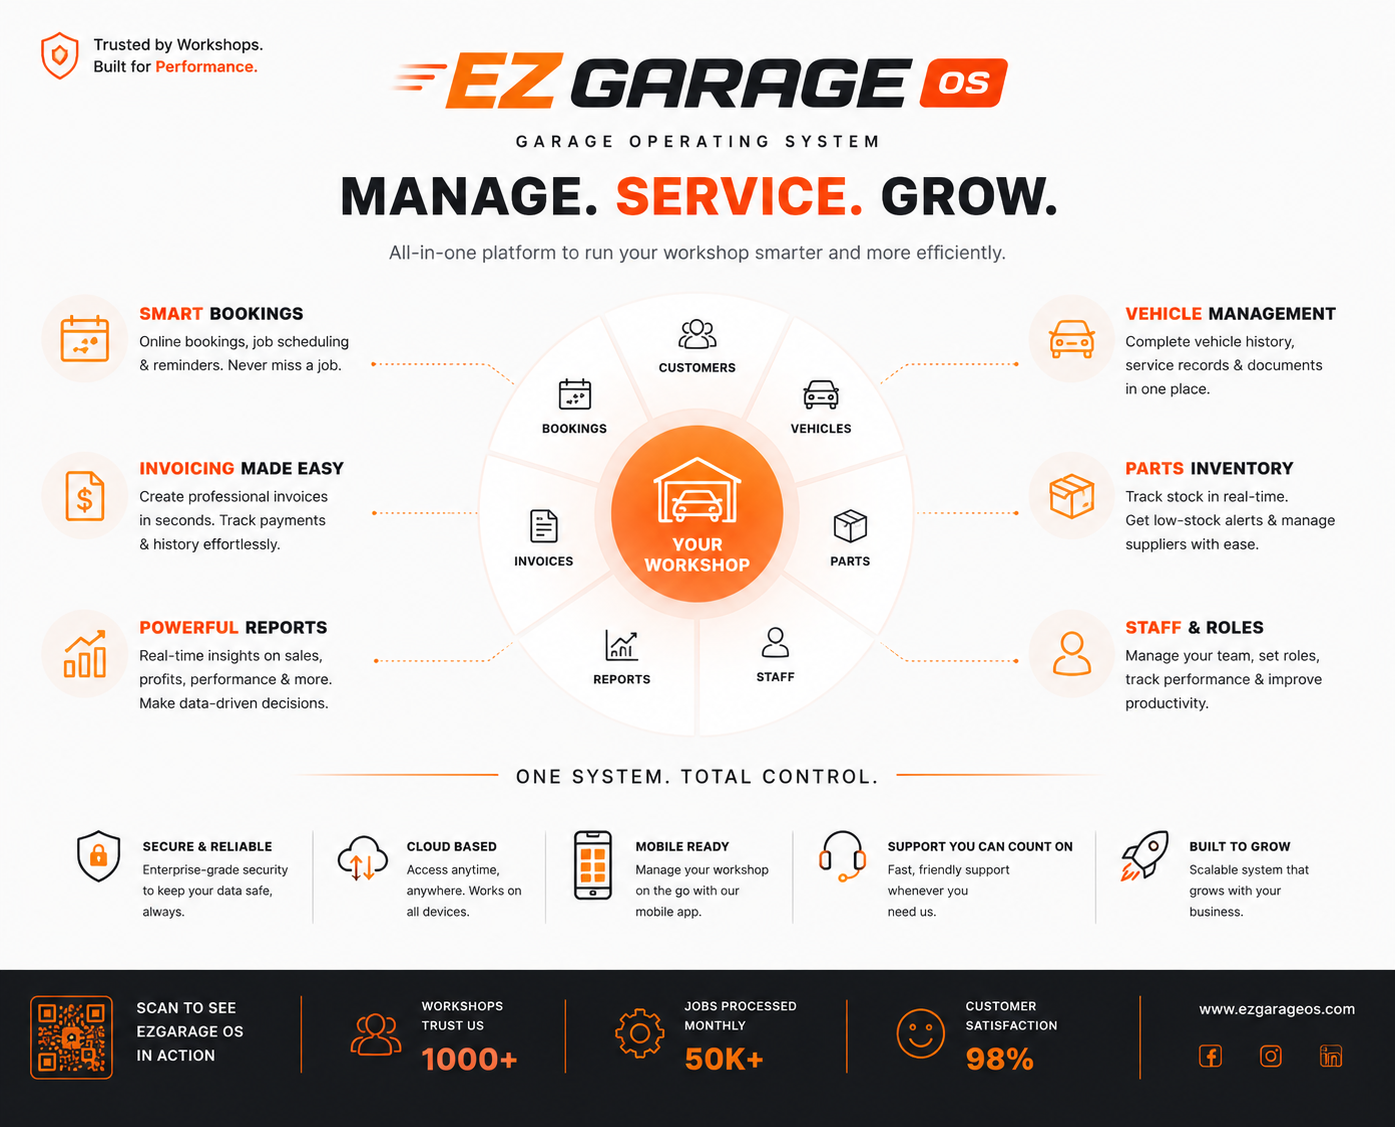
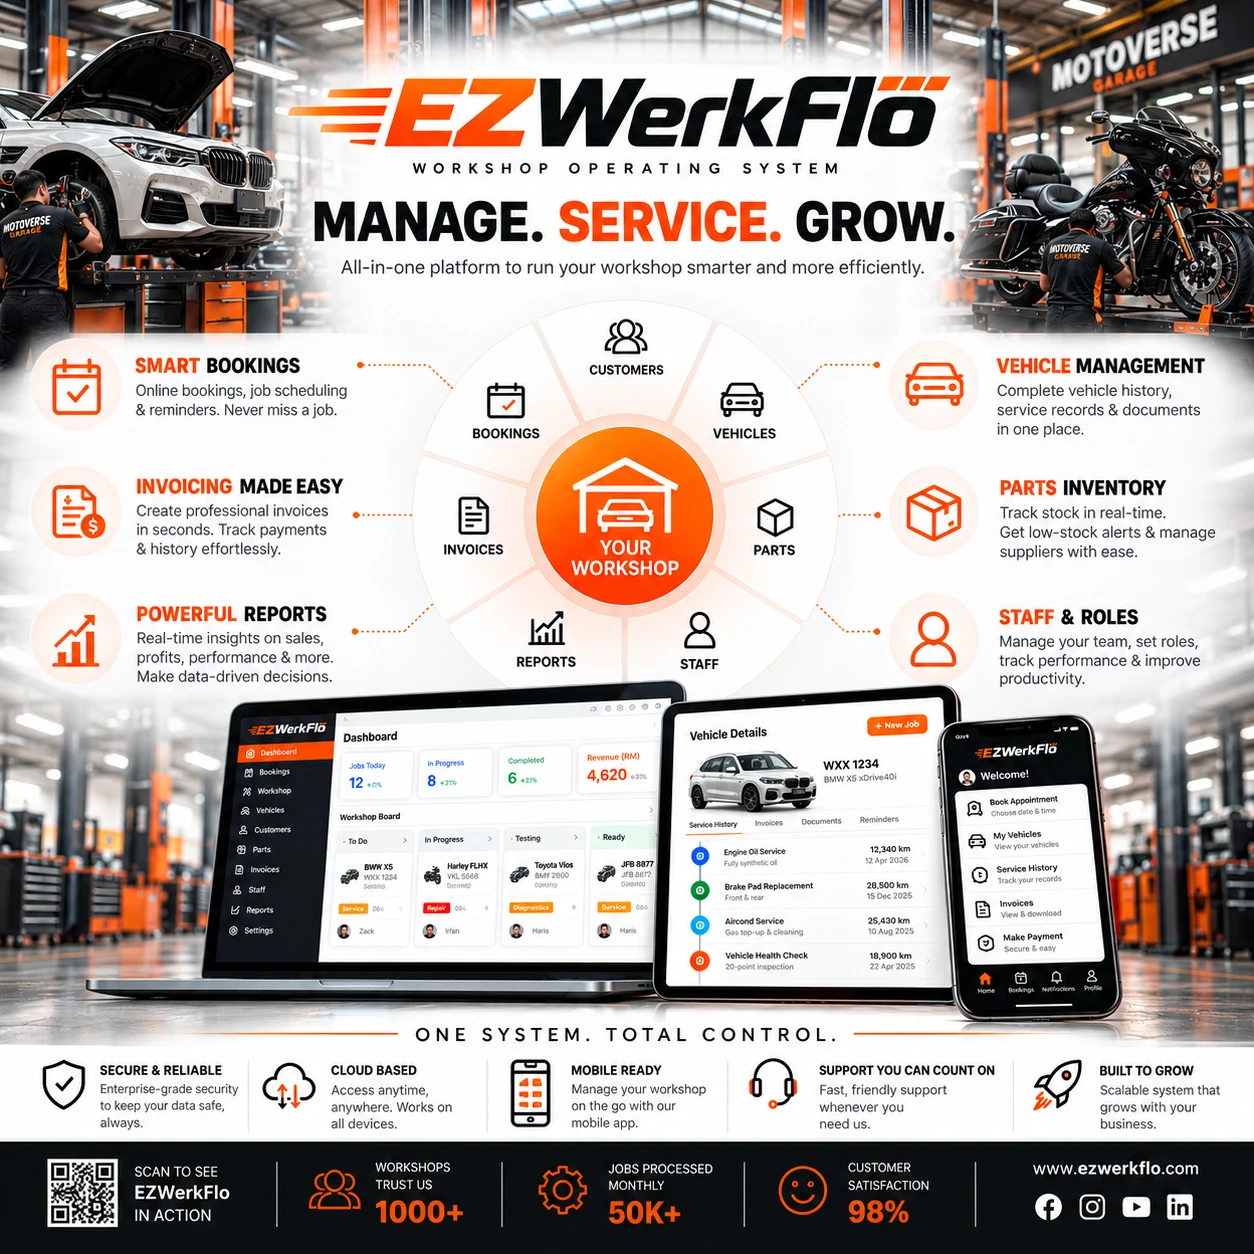
Rebrand UI from EZGarage to EZWerkFlo
UI-only rebrand: login/signup copy, header/sidebar branding, printed
invoice/receipt footers, page title, and RaudhahPay email/PDF text now
say EZWerkFlo. Swaps in new logo.png (alpha-extracted, recolored for
the dark sidebar) and login-banner.png artwork. No database, Vercel
project, or other infrastructure names changed.

diff --git a/apps/web/src/pages/SignUpPage.tsx b/apps/web/src/pages/SignUpPage.tsx
@@ -163,17 +163,17 @@ export function SignUpPage() {
         {/* Logo + centered brand block */}
         <div style={{ position: 'relative', zIndex: 10, display: 'flex', flexDirection: 'column', alignItems: 'center', textAlign: 'center', gap: '28px', width: '100%', maxWidth: '420px' }}>
 
-          {/* EZGarage OS logo mark */}
+          {/* EZWerkFlo logo mark */}
           <div style={{ display: 'flex', alignItems: 'center', gap: '14px' }}>
             <div style={{ width: 56, height: 56, background: '#F15A22', borderRadius: 14, display: 'flex', alignItems: 'center', justifyContent: 'center', flexShrink: 0, boxShadow: '0 0 24px rgba(241,90,34,0.4)' }}>
               <span style={{ color: '#fff', fontWeight: 900, fontSize: 24, fontFamily: 'system-ui', letterSpacing: -1 }}>EZ</span>
             </div>
             <div style={{ textAlign: 'left' }}>
               <div style={{ color: '#F0F0F0', fontWeight: 900, fontSize: 22, fontFamily: 'system-ui', letterSpacing: 1 }}>
-                EZGarage <span style={{ color: '#F15A22' }}>OS</span>
+                EZWerkFlo
               </div>
               <div style={{ color: '#6B7280', fontSize: 10, letterSpacing: 3, textTransform: 'uppercase', marginTop: 2 }}>
-                Garage Operating System
+                Workshop Operating System
               </div>
             </div>
           </div>
@@ -188,10 +188,10 @@ export function SignUpPage() {
           {/* Tagline */}
           <div>
             <h2 style={{ fontSize: '28px', fontWeight: 700, color: '#F0F0F0', marginBottom: '8px', lineHeight: 1.3 }}>
-              Power your garage<br />with EZGarage OS
+              Power your workshop<br />with EZWerkFlo
             </h2>
             <p style={{ fontSize: '14px', color: '#A0A0A0' }}>
-              The all-in-one garage operating system for modern workshops
+              The all-in-one operating system for modern workshops
             </p>
           </div>
 
@@ -208,7 +208,7 @@ export function SignUpPage() {
         {/* Footer */}
         <div style={{ position: 'absolute', bottom: 24, zIndex: 10 }}>
           <p style={{ fontSize: '12px', color: '#4B5563' }}>
-            EZGarage OS &copy; 2025. All rights reserved.
+            EZWerkFlo &copy; 2025. All rights reserved.
           </p>
         </div>
       </div>
@@ -231,8 +231,8 @@ export function SignUpPage() {
             <span style={{ color: '#fff', fontWeight: 900, fontSize: 17, fontFamily: 'system-ui', letterSpacing: -1 }}>EZ</span>
           </div>
           <div>
-            <div style={{ color: '#F0F0F0', fontWeight: 800, fontSize: 16, fontFamily: 'system-ui' }}>EZGarage <span style={{ color: '#F15A22' }}>OS</span></div>
-            <div style={{ color: '#6B7280', fontSize: 10, letterSpacing: 2, textTransform: 'uppercase' }}>Garage Operating System</div>
+            <div style={{ color: '#F0F0F0', fontWeight: 800, fontSize: 16, fontFamily: 'system-ui' }}>EZWerkFlo</div>
+            <div style={{ color: '#6B7280', fontSize: 10, letterSpacing: 2, textTransform: 'uppercase' }}>Workshop Operating System</div>
           </div>
         </div>
 
@@ -438,7 +438,7 @@ export function SignUpPage() {
           </p>
 
           <p style={{ textAlign: 'center', fontSize: '12px', color: '#4B5563', marginTop: '24px' }}>
-            EZGarage OS &copy; 2025
+            EZWerkFlo &copy; 2025
           </p>
         </div>
       </div>

diff --git a/apps/web/src/pages/LoginPage.tsx b/apps/web/src/pages/LoginPage.tsx
@@ -76,7 +76,7 @@ export function LoginPage() {
       >
         <img
           src="/login-banner.png"
-          alt="EZGarage OS"
+          alt="EZWerkFlo — Workshop Operating System"
           style={{ width: '100%', height: '100%', objectFit: 'cover', objectPosition: 'center top', display: 'block' }}
         />
       </div>
@@ -95,8 +95,8 @@ export function LoginPage() {
             <span style={{ color: '#fff', fontWeight: 900, fontSize: 16 }}>EZ</span>
           </div>
           <div>
-            <div style={{ color: '#F0F0F0', fontWeight: 800, fontSize: 16 }}>EZGarage <span style={{ color: '#F15A22' }}>OS</span></div>
-            <div style={{ color: '#6B7280', fontSize: 10, letterSpacing: 1.5, textTransform: 'uppercase', marginTop: 2 } as React.CSSProperties}>Garage Operating System</div>
+            <div style={{ color: '#F0F0F0', fontWeight: 800, fontSize: 16 }}>EZWerkFlo</div>
+            <div style={{ color: '#6B7280', fontSize: 10, letterSpacing: 1.5, textTransform: 'uppercase', marginTop: 2 } as React.CSSProperties}>Workshop Operating System</div>
           </div>
         </div>
 
@@ -115,7 +115,7 @@ export function LoginPage() {
               Welcome <span style={{ color: '#F15A22' }}>Back!</span>
             </h2>
             <p style={{ color: '#6B7280', fontSize: 14, margin: 0 }}>
-              Sign in to your EZGarage workspace
+              Sign in to your EZWerkFlo workspace
             </p>
           </div>
 
@@ -229,7 +229,7 @@ export function LoginPage() {
           </form>
 
           <p style={{ textAlign: 'center', fontSize: 13, color: '#6B7280', marginTop: 24, marginBottom: 0 }}>
-            New to EZGarage OS?{' '}
+            New to EZWerkFlo?{' '}
             <a href="/signup" style={{ color: '#F15A22', textDecoration: 'none', fontWeight: 600 }}>
               Sign up free →
             </a>
@@ -237,7 +237,7 @@ export function LoginPage() {
         </div>
 
         <p style={{ textAlign: 'center', fontSize: 11, color: '#2A2A2A', marginTop: 20 }}>
-          EZGarage OS © 2025. All rights reserved.
+          EZWerkFlo © 2025. All rights reserved.
         </p>
       </div>
     </div>

diff --git a/apps/web/src/pages/InvoicesPage.tsx b/apps/web/src/pages/InvoicesPage.tsx
@@ -280,7 +280,7 @@ function buildInvoiceHtml(inv: Invoice, branch: BranchPrintInfo | null): string 
   </div>
   <div style="text-align:center;font-size:12px;color:#aaa;border-top:1px solid #eee;padding-top:8px;margin-bottom:12px">Thank you for your business! · This is a computer-generated invoice.</div>
   <div style="display:flex;align-items:center;justify-content:center;gap:6px;padding-top:8px;border-top:1px solid #f0f0f0">
-    <span style="font-size:12px;color:#bbb">Powered by:</span><span style="font-size:12px;color:#aaa;font-weight:600">EZ Garage</span><span style="font-size:12px;color:#ccc">·</span><span style="font-size:12px;color:#aaa">http://ezgarage.app</span>
+    <span style="font-size:12px;color:#bbb">Powered by:</span><span style="font-size:12px;color:#aaa;font-weight:600">EZWerkFlo</span><span style="font-size:12px;color:#ccc">·</span><span style="font-size:12px;color:#aaa">http://ezwerkflo.com</span>
   </div>
 </div></body></html>`
 }
@@ -335,7 +335,7 @@ function buildReceiptHtml(inv: Invoice, branch: BranchPrintInfo | null): string 
   </div>
   <div style="text-align:center;font-size:12px;color:#aaa;border-top:1px solid #eee;padding-top:8px;margin-bottom:6px">Thank you for your payment! Please keep this receipt for your records.</div>
   <div style="display:flex;align-items:center;justify-content:center;gap:6px">
-    <span style="font-size:11px;color:#ccc">Powered by:</span><span style="font-size:11px;color:#bbb;font-weight:600">EZ Garage</span><span style="font-size:11px;color:#ccc">·</span><span style="font-size:11px;color:#bbb">http://ezgarage.app</span>
+    <span style="font-size:11px;color:#ccc">Powered by:</span><span style="font-size:11px;color:#bbb;font-weight:600">EZWerkFlo</span><span style="font-size:11px;color:#ccc">·</span><span style="font-size:11px;color:#bbb">http://ezwerkflo.com</span>
   </div>
 </div></body></html>`
 }

diff --git a/supabase/functions/raudhahpay-daily-statement/index.ts b/supabase/functions/raudhahpay-daily-statement/index.ts
@@ -139,7 +139,7 @@ Deno.serve(async (req) => {
       page.drawText(str, { x, y, size, font: bold ? fontBold : font, color })
     }
 
-    text('EZGarage — RaudhahPay Daily Reconciliation Statement', margin, 16, true)
+    text('EZWerkFlo — RaudhahPay Daily Reconciliation Statement', margin, 16, true)
     y -= 22
     text(`Statement date: ${targetDate}`, margin, 11)
     y -= 16
@@ -202,9 +202,9 @@ Deno.serve(async (req) => {
       method: 'POST',
       headers: { Authorization: `Bearer ${Deno.env.get('RESEND_API_KEY')}`, 'Content-Type': 'application/json' },
       body: JSON.stringify({
-        from: 'EZGarage <onboarding@resend.dev>',
+        from: 'EZWerkFlo <onboarding@resend.dev>',
         to: recipients,
-        subject: `EZGarage RaudhahPay Statement — ${targetDate}`,
+        subject: `EZWerkFlo RaudhahPay Statement — ${targetDate}`,
         html: `<p>Attached is the RaudhahPay reconciliation statement for <strong>${targetDate}</strong>.</p>
                <p>${rows.length} transaction(s) across ${byTenant.size} tenant(s), grand total RM ${grandTotal.toFixed(2)}.</p>`,
         attachments: [{ filename: `raudhahpay-statement-${targetDate}.pdf`, content: pdfBase64 }],

diff --git a/supabase/functions/notify-tenant-kyc/index.ts b/supabase/functions/notify-tenant-kyc/index.ts
@@ -74,8 +74,8 @@ Deno.serve(async (req) => {
     ]
 
     const html = `
-      <h2>New EZGarage tenant — RaudhahPay onboarding details</h2>
-      <p>The following workshop has joined EZGarage and needs to be set up for RaudhahPay payment disbursement.</p>
+      <h2>New EZWerkFlo tenant — RaudhahPay onboarding details</h2>
+      <p>The following workshop has joined EZWerkFlo and needs to be set up for RaudhahPay payment disbursement.</p>
       <table cellpadding="6" style="border-collapse: collapse;">
         ${rows.map(([label, value]) => `
           <tr>
@@ -96,9 +96,9 @@ Deno.serve(async (req) => {
         // Resend's shared sandbox sender — works with no domain setup.
         // Swap for a verified custom domain address once one is added
         // to the Resend account.
-        from: 'EZGarage <onboarding@resend.dev>',
+        from: 'EZWerkFlo <onboarding@resend.dev>',
         to: [picEmail],
-        subject: `New EZGarage tenant onboarded: ${tenant.name}`,
+        subject: `New EZWerkFlo tenant onboarded: ${tenant.name}`,
         html,
       }),
     })

diff --git a/apps/web/src/components/layout/Sidebar.tsx b/apps/web/src/components/layout/Sidebar.tsx
@@ -132,7 +132,7 @@ const NAV_GROUPS: NavGroup[] = [
   },
 ]
 
-function EZGarageLogo({ collapsed, branchLogoUrl }: { collapsed: boolean; branchLogoUrl?: string | null }) {
+function BrandLogo({ collapsed, branchLogoUrl }: { collapsed: boolean; branchLogoUrl?: string | null }) {
   const logoSrc = branchLogoUrl || '/logo.png'
   return (
     <div style={{ display: 'flex', alignItems: 'center', justifyContent: 'center', padding: collapsed ? '12px 8px' : '16px 16px 12px', borderBottom: '1px solid #2A2A2A' }}>
@@ -160,7 +160,7 @@ function SidebarContent({
 }: ContentProps) {
   return (
     <>
-      <EZGarageLogo collapsed={collapsed} branchLogoUrl={branchLogoUrl} />
+      <BrandLogo collapsed={collapsed} branchLogoUrl={branchLogoUrl} />
 
       {showCollapseToggle && (
         <button

diff --git a/apps/web/src/pages/QuotationsPage.tsx b/apps/web/src/pages/QuotationsPage.tsx
@@ -1088,9 +1088,9 @@ export function QuotationsPage() {
             </div>
             <div style={{ display: 'flex', alignItems: 'center', justifyContent: 'center', gap: 6, paddingTop: 6, borderTop: '1px solid #f0f0f0' }}>
               <span style={{ fontSize: 12, color: '#bbb' }}>Powered by:</span>
-              <span style={{ fontSize: 12, color: '#aaa', fontWeight: 600 }}>EZ Garage</span>
+              <span style={{ fontSize: 12, color: '#aaa', fontWeight: 600 }}>EZWerkFlo</span>
               <span style={{ fontSize: 12, color: '#ccc' }}>·</span>
-              <span style={{ fontSize: 12, color: '#aaa' }}>http://ezgarage.app</span>
+              <span style={{ fontSize: 12, color: '#aaa' }}>http://ezwerkflo.com</span>
             </div>
           </div>
         </div>

diff --git a/apps/web/src/pages/PrintInvoicePage.tsx b/apps/web/src/pages/PrintInvoicePage.tsx
@@ -288,9 +288,9 @@ export function PrintInvoicePage() {
         </div>
         <div style={{ display: 'flex', alignItems: 'center', justifyContent: 'center', gap: 6, paddingTop: 8, borderTop: '1px solid #f0f0f0' }}>
           <span style={{ fontSize: 12, color: '#bbb', letterSpacing: 0.5 }}>Powered by:</span>
-          <span style={{ fontSize: 12, color: '#aaa', fontWeight: 600 }}>EZ Garage</span>
+          <span style={{ fontSize: 12, color: '#aaa', fontWeight: 600 }}>EZWerkFlo</span>
           <span style={{ fontSize: 12, color: '#ccc' }}>·</span>
-          <span style={{ fontSize: 12, color: '#aaa' }}>http://ezgarage.app</span>
+          <span style={{ fontSize: 12, color: '#aaa' }}>http://ezwerkflo.com</span>
         </div>
       </div>
     </>

diff --git a/apps/web/src/components/receipts/ReceiptSheet.tsx b/apps/web/src/components/receipts/ReceiptSheet.tsx
@@ -105,9 +105,9 @@ export function ReceiptSheet({ inv, branchInfo }: { inv: ReceiptData; branchInfo
       </div>
       <div style={{ display: 'flex', alignItems: 'center', justifyContent: 'center', gap: 6 }}>
         <span style={{ fontSize: 11, color: '#ccc' }}>Powered by:</span>
-        <span style={{ fontSize: 11, color: '#bbb', fontWeight: 600 }}>EZ Garage</span>
+        <span style={{ fontSize: 11, color: '#bbb', fontWeight: 600 }}>EZWerkFlo</span>
         <span style={{ fontSize: 11, color: '#ccc' }}>·</span>
-        <span style={{ fontSize: 11, color: '#bbb' }}>http://ezgarage.app</span>
+        <span style={{ fontSize: 11, color: '#bbb' }}>http://ezwerkflo.com</span>
       </div>
     </div>
   )

diff --git a/apps/web/src/pages/EspCommunitySettingsPage.tsx b/apps/web/src/pages/EspCommunitySettingsPage.tsx
@@ -258,7 +258,7 @@ function CommunityModal({ initial, branches, onClose, onSaved }: {
             }} placeholder="e.g. Sportster Malaysia" />
           </div>
           <div>
-            <label style={labelStyle}>Public Link Slug * -- used as ezgarage.app/esp/{'<slug>'}</label>
+            <label style={labelStyle}>Public Link Slug * -- used as ezwerkflo.com/esp/{'<slug>'}</label>
             <input style={inputStyle} value={form.slug} onChange={e => { setSlugTouched(true); set('slug', e.target.value) }} placeholder="sportster-malaysia" />
             <p style={{ fontSize: 11, color: '#6B7280', marginTop: 4 }}>Must be unique across every workshop on the platform, not just yours.</p>
           </div>

diff --git a/apps/web/src/pages/PlatformSettingsPage.tsx b/apps/web/src/pages/PlatformSettingsPage.tsx
@@ -286,7 +286,7 @@ export function PlatformSettingsPage() {
               padding: '12px 16px', borderRadius: 8, backgroundColor: '#1A1A1A', border: '1px solid #2A2A2A',
               fontSize: 12, color: '#6B7280', lineHeight: 1.6,
             }}>
-              Every night at 7pm (MYT), EZGarage emails Chip In Sdn Bhd a PDF statement of the previous day's
+              Every night at 7pm (MYT), EZWerkFlo emails Chip In Sdn Bhd a PDF statement of the previous day's
               RaudhahPay transactions across every tenant, so they know what to disburse and to whom.
             </div>
 

diff --git a/apps/web/index.html b/apps/web/index.html
@@ -4,7 +4,7 @@
     <meta charset="UTF-8" />
     <link rel="icon" type="image/svg+xml" href="/favicon.svg" />
     <meta name="viewport" content="width=device-width, initial-scale=1.0" />
-    <title>EZGarage OS — Garage Operating System</title>
+    <title>EZWerkFlo — Workshop Operating System</title>
     <link rel="preconnect" href="https://fonts.googleapis.com" />
     <link rel="preconnect" href="https://fonts.gstatic.com" crossorigin />
     <link href="https://fonts.googleapis.com/css2?family=Inter:wght@300;400;500;600;700;800&display=swap" rel="stylesheet" />
